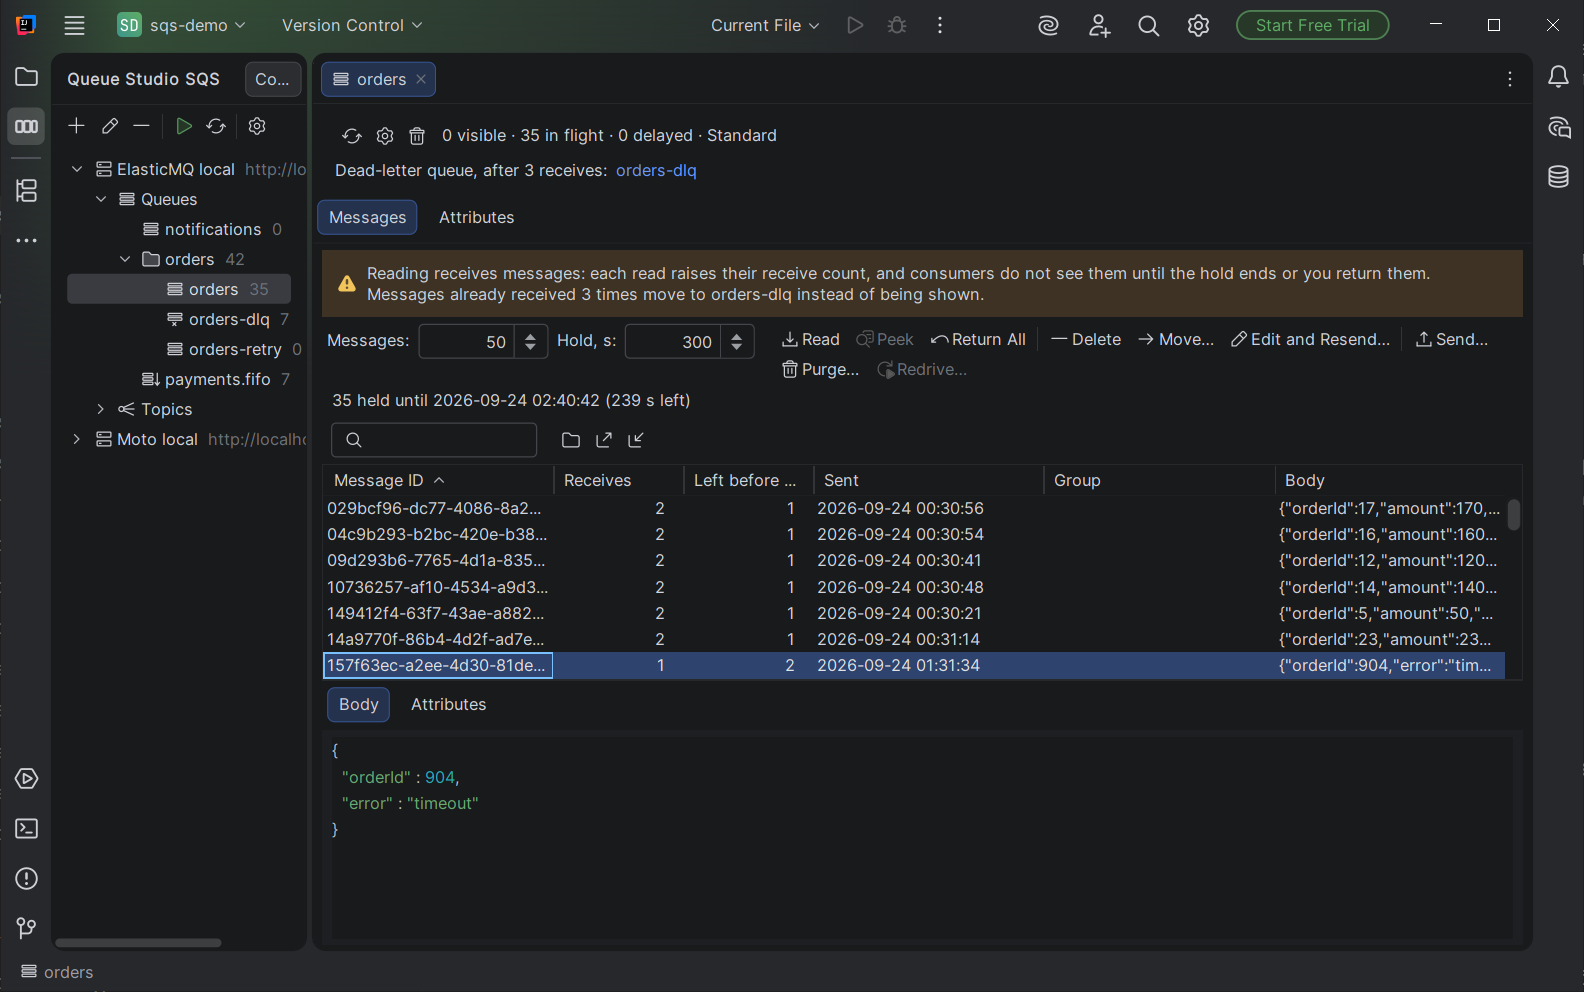
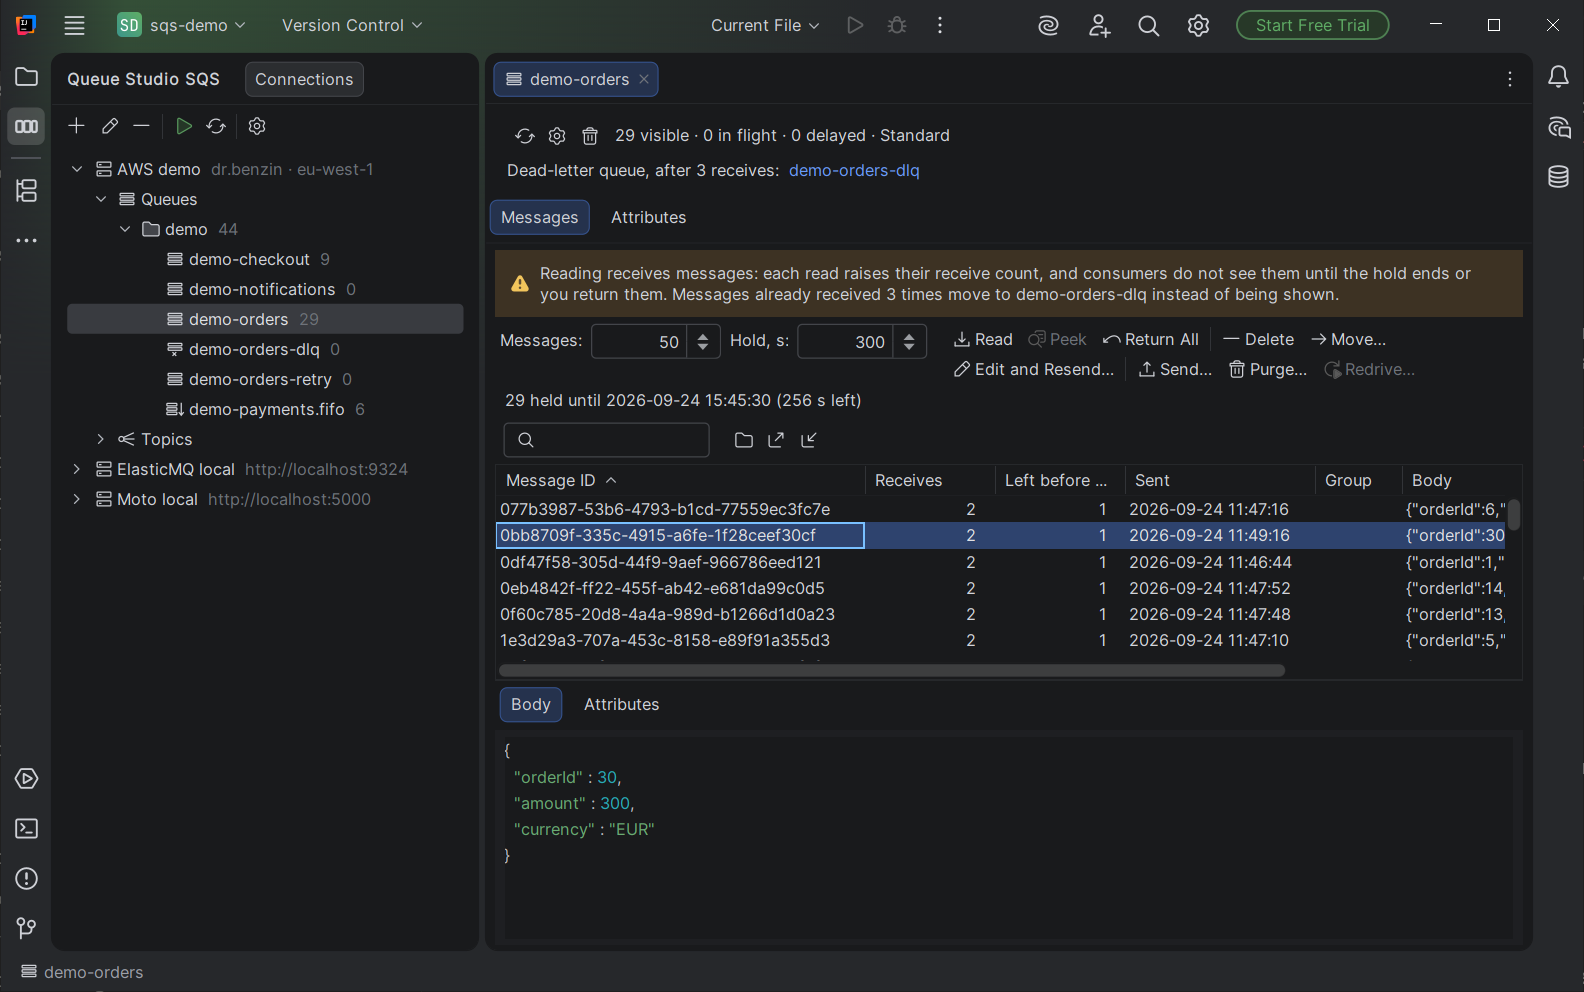
SQS guide leads with reading without dead-lettering; screenshots from real AWS

diff --git a/sqs/README.md b/sqs/README.md
@@ -1,8 +1,14 @@
 # Queue Studio for Amazon SQS
 
-A JetBrains IDE plugin for Amazon SQS and SNS. It connects to AWS profiles and to local emulators, reads up to 10,000
-messages at once with receive counts, redrives dead-letter queues, and publishes to topics, all without leaving the
-editor.
+A JetBrains IDE plugin for Amazon SQS and SNS that lets you look at messages without pushing them into the
+dead-letter queue.
+
+SQS has no peek: every look at a message is a receive. In a queue with a redrive policy, a few looks in an ordinary
+viewer quietly move messages to the DLQ. Queue Studio says before each read what it will do to the queue, shows how
+many receives each message has left, holds what it read and gives it back at once when you are done.
+
+It also redrives dead-letter queues, moves, fixes and resends messages, and publishes to topics. It works with AWS
+profiles and local emulators, all without leaving the editor.
 
 Report a bug or ask for a feature in [Issues](../../../issues). For anything private, write to factodus@gmail.com.
 
